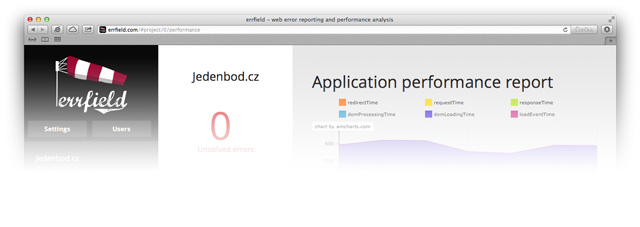
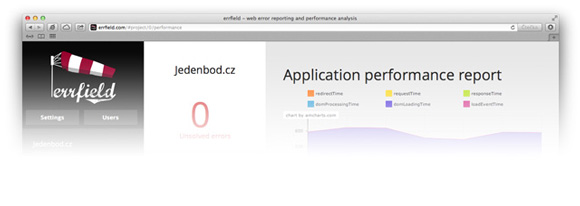
New screenshot and mail formatting

diff --git a/auth/ajax/calls/newUser.php b/auth/ajax/calls/newUser.php
@@ -49,18 +49,18 @@
 
 			$htmlEmail = file_get_contents("../../../emails/default-header.html");
 			$htmlEmail .= '
-			    <p align="left" class="article-title"><singleline label="Title">Hey there!</singleline></p>
+			    <h1>Hey there!</h1>
 			    <div align="left" class="article-content">
-			        <multiline label="Description">You just created new account on <a href="http://errfield.com/">Errfield.com</a>.</multiline>
+			        <p>You just created new account on <a href="http://errfield.com/">Errfield.com</a>.</p>
 			    </div>
 			    <div align="left" class="article-content">
-			        <multiline label="Description">Your login name is: <strong>' . $_POST["login"] . '</strong></multiline>
+			        <p>Your login name is: <strong>' . $_POST["login"] . '</strong></p>
 			    </div>
 			    <div align="left" class="article-content">
-			        <multiline label="Description">Your password is: <strong>' . $_POST["password"] . '</strong></multiline>
+			        <p>Your password is: <strong>' . $_POST["password"] . '</strong></p>
 			    </div>
 			    <div align="left" class="article-content">
-			        <multiline label="Description"><a href="http://errfield.com/">Login now!</a></multiline>
+			        <p><a href="http://errfield.com/">Login now!</a></p>
 			    </div>
 			    ';
 			$htmlEmail .= file_get_contents("../../../emails/default-footer.html");
